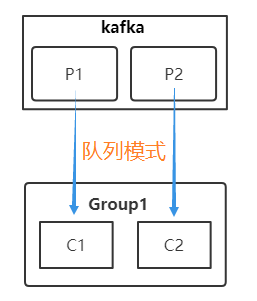
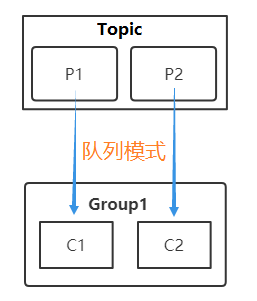
update

Changed region(s): [[0.3735, 0.0598, 0.5603, 0.1495]]

diff --git a/column/kafka/Python读取kafka.md b/column/kafka/Python读取kafka.md
@@ -1,7 +1,7 @@
 # Python读取kafka
 
 ## 前记
-消息队列是分布式系统架构中不可或缺的基础组件，它主要负责服务间的消息通信和数据传输。
+`消息队列`是分布式系统架构中不可或缺的基础组件，它主要负责服务间的消息通信和数据传输。
 市面上有很多的开源消息队列服务可以选择，除了kafka，还有Activemq，Rocketmq等。
 对于要选择哪一个服务需要根据的实际情况来定，今天主要介绍Python对kafka的使用。
 
@@ -39,20 +39,20 @@ kafka中有几个重要的概念：
 - partition
 - Consumer Group
 
-Topic就是定义一个消息分类，相关的生产者和消费者通过特定的Topic来进行联通。
+`Topic`：定义一个消息分类，相关的生产者和消费者通过特定的Topic来进行联通。
 
-partition是Topic下的子概念，一个Topic通常可以分为1或多个partition，该Topic中的消息会分发到不同的partition中，也可以在代码中指定特定的partition。
+`partition`：Topic下的子概念，一个Topic通常可以分为1或多个partition，该Topic中的消息会分发到不同的partition中，也可以在代码中指定特定的partition。
 
-Consumer Group是消费者组，它的作用的限定一组消费者，同组内的消费者在消费时是一种互斥模式；即同一个组内只有一个消费者可以消费到某个特定的消息。
+`Consumer Group`：消费者组，它的作用的限定一组消费者，同组内的消费者在消费时是一种互斥模式；即同一个组内只有一个消费者可以消费到某个特定的消息。
 
 ### 分区和分组
-分区即一个Topic设置了多个partition（默认是1个），分区有如下的优势：
+`分区`即一个Topic设置了多个partition（默认是1个），分区有如下的优势：
 - 支持分布式
 - 支持负载并发请求
 - 支持容灾备份
-- 支持保证分区内的消费顺序
+- 保证分区内的消费顺序
 
-分组即把相关联的消费者放在一个组内（kafka对每个消费者会分配一个默认分组，如果不指定的话），分组有如下优势：
+`分组`即把相关联的消费者放在一个组内（kafka对每个消费者会分配一个默认分组，如果不指定的话），分组有如下优势：
 - 组内多个消费者可以并发处理（提高消费效率的方式）
 - 消费者管理更加灵活
 
@@ -79,7 +79,7 @@ Consumer Group是消费者组，它的作用的限定一组消费者，同组内
 
 ![分发订阅模式](https://github.com/five3/testqa/blob/master/images/kafka_05.png?raw=true)
 
-kafka中默认会把同一个消息分发给所有的消费者，即订阅模式。
+kafka中默认会把同一个消息分发给所有的订阅组（Consumer Group），即分发订阅模式。
 如果想要实现队列模式，则把所有的消费者存放在一个Consumer Group内，且该Topic只有这一个组有订阅。kafka不同消费模式的示意如下：
 
 ![kafka消息模式](https://github.com/five3/testqa/blob/master/images/kafka_06.png?raw=true)
@@ -93,9 +93,11 @@ kafka的消费方式有三种：
 - At least once（消息最少被消费一次）
 - Exactly once（消息刚好被消费一次）
 
-前两者所有版本的kafka都支持，可以通过是否自动提交offset来控制。默认kafka是会自动提交offset的，即属于第一种方式。如果设置为不自动提交offset则属于第二种方式。
+前两者所有版本的kafka都支持，可以通过是否自动提交offset来控制。
+默认kafka是会自动提交offset的，即属于第一种方式。如果设置为手动提交offset则属于第二种方式。
 
-另外如果需要刚好一次的消费语义，则需要0.11以上的kafka版本。如果你的版本不是0.11之后的，则可以通过At least once配合下游应用的幂等机制来实现。
+另外如果需要刚好一次的消费语义，则需要0.11以上的kafka版本。
+如果你的版本不是0.11之后的，则可以通过At least once配合下游应用的幂等机制来实现。
 
 ## API
 [https://kafka-python.readthedocs.io/en/master/usage.html](https://kafka-python.readthedocs.io/en/master/usage.html)
